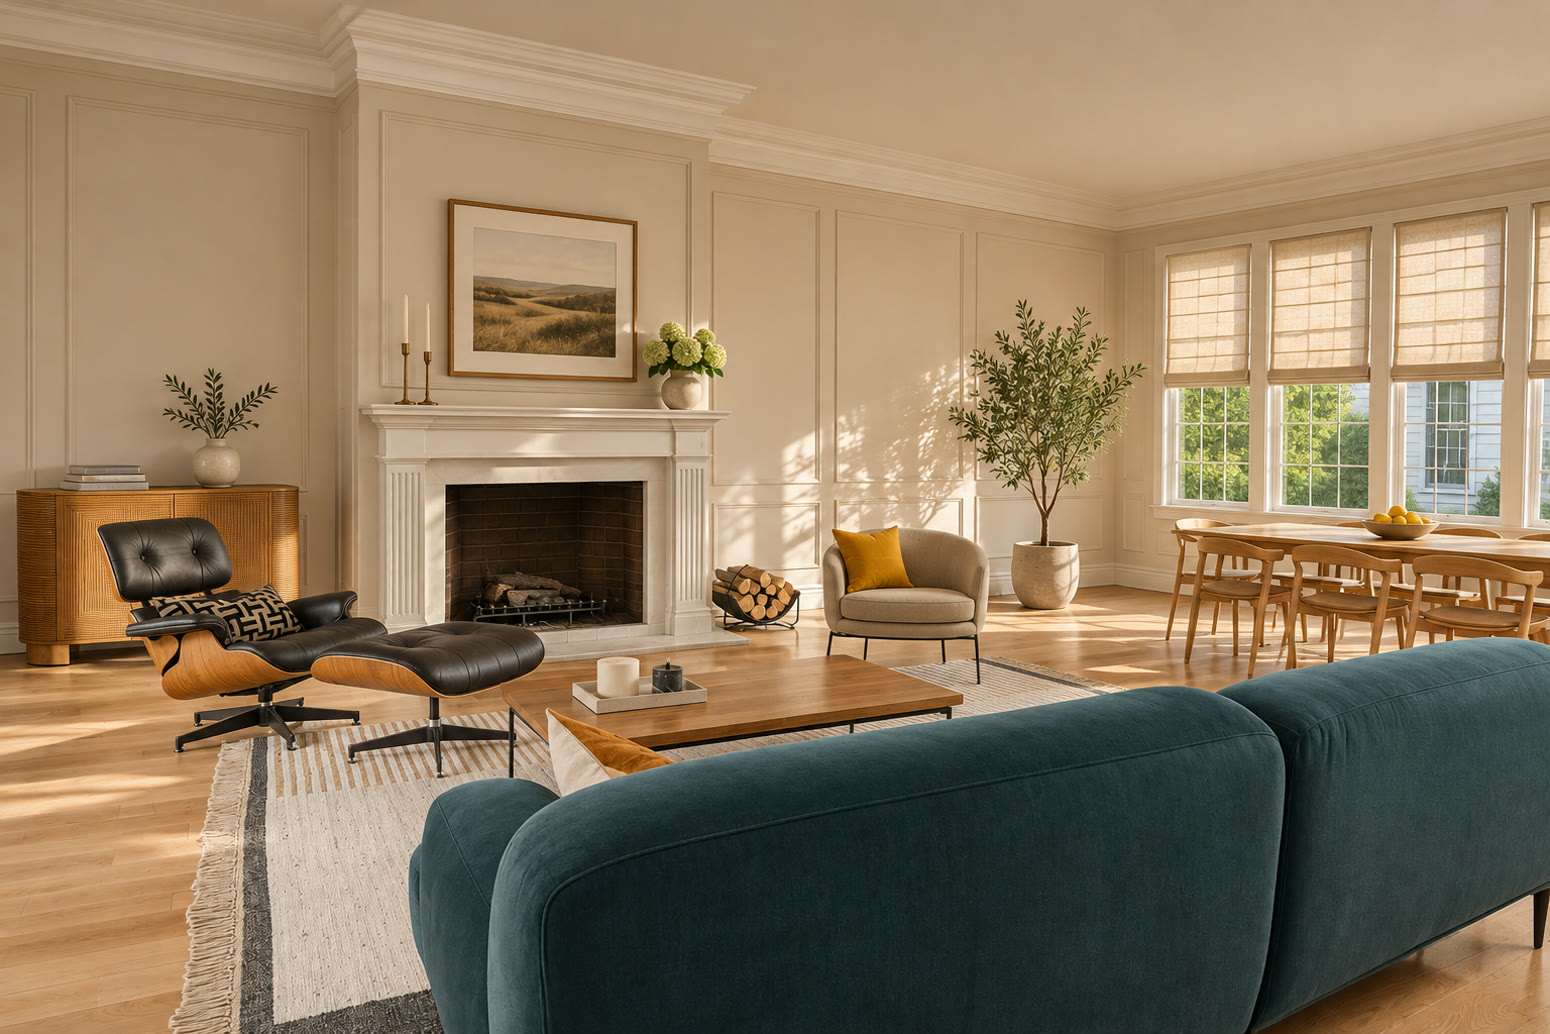
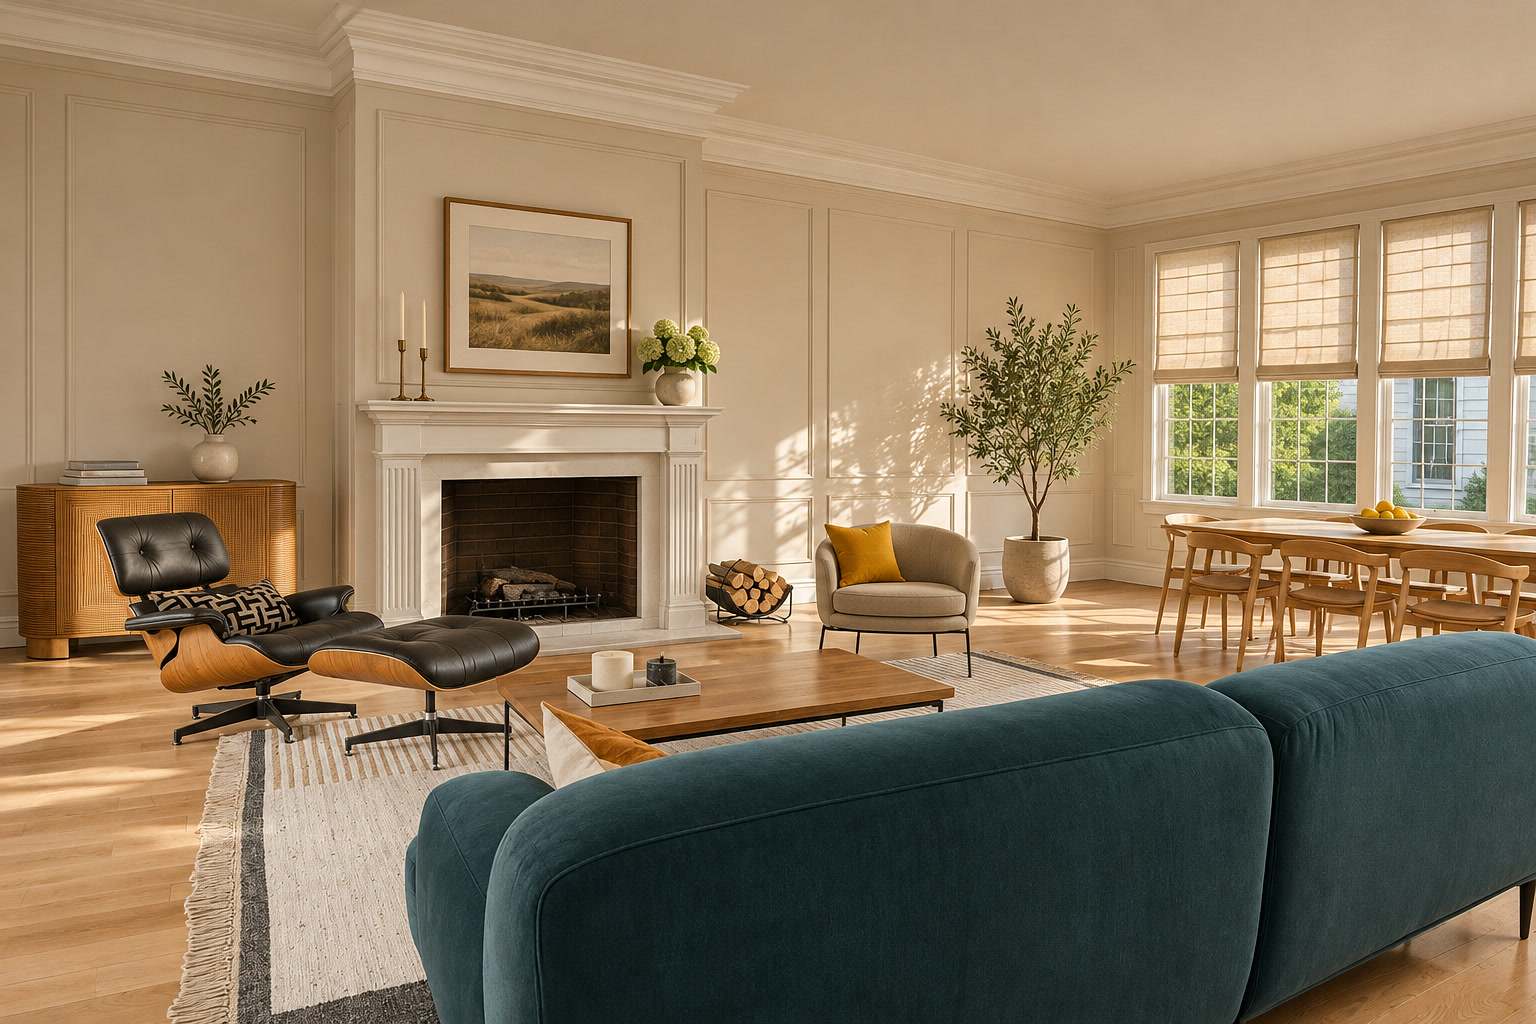
Widen and sharpen the spatial entrance

diff --git a/web/spatial/renderer.js b/web/spatial/renderer.js
@@ -15,9 +15,11 @@ const cross = (a,b) => [a[1]*b[2]-a[2]*b[1], a[2]*b[0]-a[0]*b[2], a[0]*b[1]-a[1]
 const dot = (a,b) => a.reduce((sum,x,i) => sum+x*b[i], 0);
 
 export function cameraAt(progress, aspect, pointer = [0, 0]) {
-  const focal = 1 / Math.tan(39 * Math.PI / 360);
-  const dockDistance = MAIN_WIDTH * focal / (2 * aspect);
-  const wideDistance = Math.max(21.5, dockDistance * 1.82);
+  const fieldOfView=mix(43,39,ramp(.20,.74,progress));
+  const focal=1/Math.tan(fieldOfView*Math.PI/360);
+  const dockFocal=1/Math.tan(39*Math.PI/360);
+  const dockDistance=MAIN_WIDTH*dockFocal/(2*aspect);
+  const wideDistance=Math.max(22, dockDistance*1.88);
   const travel = ramp(0, 1, progress);
   const straighten = 1 - ramp(.24, .72, progress);
   const eye = [(-3.9 + pointer[0] * .6)*straighten, (1.5 + pointer[1]*.3)*straighten,
@@ -51,7 +53,7 @@ varying vec2 vRay;
 uniform vec3 uEye,uRight,uUp,uForward;
 uniform vec3 uPlateEye,uPlateRight,uPlateUp,uPlateForward;
 uniform vec2 uLens;
-uniform float uTime,uRoomBlend;
+uniform float uTime,uRoomBlend,uPlateFocal;
 uniform sampler2D uPlate;
 float hash(vec2 p){return fract(sin(dot(p,vec2(127.1,311.7)))*43758.5453);}
 float noise(vec2 p){
@@ -123,7 +125,7 @@ void main(){
   float sofa=boxEntry(uEye,d,vec3(-3.3,-2.84,12.9),vec3(9.3,-1.20,16.4));
   vec3 at=uEye+d*min(t,sofa)-uPlateEye;
   float depth=max(.02,dot(at,uPlateForward));
-  vec2 point=vec2(dot(at,uPlateRight)*uLens.y/uLens.x,-dot(at,uPlateUp)*uLens.y)/depth*.5+.5;
+  vec2 point=vec2(dot(at,uPlateRight)/uLens.x,-dot(at,uPlateUp))*uPlateFocal/depth*.5+.5;
   vec2 edge=min(point,1.-point);
   float inPlate=smoothstep(-.045,-.002,min(edge.x,edge.y));
   vec3 photo=texture2D(uPlate,point).rgb;
@@ -169,9 +171,11 @@ void main(){
   if(uPortal<.5&&length(corner)>1.0)discard;
   vec3 color=texture2D(uImage,vUV).rgb;
   float edge=smoothstep(.0,.005,min(vUV.x,1.-vUV.x))*smoothstep(.0,.012,min(vUV.y,1.-vUV.y));
-  float glint=exp(-pow((vUV.x-.17-uEye.x*.085)/.19,2.))*(.3+.7*vUV.y);
+  float glint=exp(-pow((vUV.x-.28-uEye.x*.060)/.23,2.))*(.36+.64*vUV.y);
+  float rim=(1.-smoothstep(.002,.011,vUV.y))*smoothstep(.015,.06,vUV.x)*(1.-smoothstep(.94,.985,vUV.x));
   color=mix(vec3(.41,.37,.33)*(.5+.5*glint),color,edge);
-  color+=vec3(.090,.079,.066)*glint*.38*(1.-uPortal);
+  color+=vec3(.073,.065,.051)*glint*.48*(1.-uPortal);
+  color+=vec3(.24,.22,.18)*rim*glint*(1.-uPortal);
   color=mix(color,vec3(.063,.067,.074),uPortal*uDock*.83);
   if(uReflection>.5){
     float a=.115*exp(-.10*dot(vPosition.xz,vPosition.xz)/10.)
@@ -205,7 +209,7 @@ function strip(steps, position) {
 }
 
 export function makeScene(canvas, wallArt, mainArt, roomArt, actorArt) {
-  const gl = canvas.getContext('webgl',{antialias:false,alpha:false, powerPreference:'high-performance'});
+  const gl = canvas.getContext('webgl',{antialias:canvas.parentElement.clientWidth>=760,alpha:false,powerPreference:'high-performance'});
   if (!gl) throw Error('WebGL unavailable');
   const room = program(gl,roomVertex,roomFragment), screen = program(gl,screenVertex,screenFragment);
   const resources = [];
@@ -216,31 +220,44 @@ export function makeScene(canvas, wallArt, mainArt, roomArt, actorArt) {
     resources.push(() => gl.deleteBuffer(buffer));
     return buffer;
   };
-  const texture = source => {
+  const maxTexture=gl.getParameter(gl.MAX_TEXTURE_SIZE);
+  function uploadTexture(source,mipmapped) {
+    const scale=Math.min(1,maxTexture/Math.max(source.width,source.height));
+    if(scale<1){
+      const reduced=document.createElement('canvas');
+      reduced.width=Math.floor(source.width*scale);
+      reduced.height=Math.floor(source.height*scale);
+      reduced.getContext('2d').drawImage(source,0,0,reduced.width,reduced.height);
+      source=reduced;
+    }
+    gl.texImage2D(gl.TEXTURE_2D,0,gl.RGBA,gl.RGBA,gl.UNSIGNED_BYTE,source);
+    if(mipmapped)gl.generateMipmap(gl.TEXTURE_2D);
+  }
+  const texture = (source,mipmapped=false) => {
     const tex=gl.createTexture();
     gl.bindTexture(gl.TEXTURE_2D,tex);
     gl.texParameteri(gl.TEXTURE_2D,gl.TEXTURE_WRAP_S,gl.CLAMP_TO_EDGE);
     gl.texParameteri(gl.TEXTURE_2D,gl.TEXTURE_WRAP_T,gl.CLAMP_TO_EDGE);
-    gl.texParameteri(gl.TEXTURE_2D,gl.TEXTURE_MIN_FILTER,gl.LINEAR);
+    gl.texParameteri(gl.TEXTURE_2D,gl.TEXTURE_MIN_FILTER,mipmapped?gl.LINEAR_MIPMAP_LINEAR:gl.LINEAR);
     gl.texParameteri(gl.TEXTURE_2D,gl.TEXTURE_MAG_FILTER,gl.LINEAR);
-    gl.texImage2D(gl.TEXTURE_2D,0,gl.RGBA,gl.RGBA,gl.UNSIGNED_BYTE,source);
+    uploadTexture(source,mipmapped);
     resources.push(() => gl.deleteTexture(tex));
     return tex;
   };
   const quad=mesh(new Float32Array([-1,-1,1,-1,-1,1,1,1]));
-  const wallShape=strip(76,(u,y) => {
+  const wallShape=strip(128,(u,y) => {
     const angle=(u-.5)*TAU/3.96;
     return [Math.sin(angle)*WALL_RADIUS,mix(-2.00,4.24,y),WALL_RADIUS*(1-Math.cos(angle))-.34];
   });
   const wall=mesh(wallShape), main=mesh(new Float32Array(20),true), actor=mesh(new Float32Array(20),true);
-  const wallTex=texture(wallArt), mainTex=texture(mainArt), roomTex=texture(roomArt);
+  const wallTex=texture(wallArt,true), mainTex=texture(mainArt), roomTex=texture(roomArt);
   const actorTex=texture(actorArt);
   const roomPoint=gl.getAttribLocation(room,'aPoint');
   const world=gl.getAttribLocation(screen,'aWorld'), uv=gl.getAttribLocation(screen,'aUV');
   const locations = p => Object.fromEntries(['Eye','Right','Up','Forward','Lens','Time','Reflection','Fade','Portal','Dock','Actor','Image']
     .map(key=>[key,gl.getUniformLocation(p,'u'+key)]));
   const roomU=locations(room), screenU=locations(screen);
-  const photoUniforms=Object.fromEntries(['Eye','Right','Up','Forward','Blend','Sampler'].map(
+  const photoUniforms=Object.fromEntries(['Eye','Right','Up','Forward','Blend','Sampler','Focal'].map(
     key=>[key,gl.getUniformLocation(room,key==='Blend'?'uRoomBlend':key==='Sampler'?'uPlate':'uPlate'+key)]));
   gl.useProgram(screen); gl.uniform1i(screenU.Image,0);
   gl.blendFunc(gl.SRC_ALPHA,gl.ONE_MINUS_SRC_ALPHA);
@@ -285,7 +302,8 @@ export function makeScene(canvas, wallArt, mainArt, roomArt, actorArt) {
       gl.useProgram(room); uniforms(roomU,camera,time);
       gl.uniform3fv(photoUniforms.Eye,plate.eye); gl.uniform3fv(photoUniforms.Right,plate.right);
       gl.uniform3fv(photoUniforms.Up,plate.up); gl.uniform3fv(photoUniforms.Forward,plate.forward);
-      gl.uniform1f(photoUniforms.Blend,1-ramp(.60,.94,progress));
+      gl.uniform1f(photoUniforms.Focal,plate.focal);
+      gl.uniform1f(photoUniforms.Blend,1-ramp(.70,.96,progress));
       gl.uniform1i(photoUniforms.Sampler,0);
       gl.bindTexture(gl.TEXTURE_2D,roomTex);
       gl.bindBuffer(gl.ARRAY_BUFFER,quad); gl.enableVertexAttribArray(roomPoint);
@@ -310,7 +328,7 @@ export function makeScene(canvas, wallArt, mainArt, roomArt, actorArt) {
     update() {
       for (const [tex,source] of [[wallTex,wallArt],[mainTex,mainArt],[roomTex,roomArt]]) {
         gl.bindTexture(gl.TEXTURE_2D,tex);
-        gl.texImage2D(gl.TEXTURE_2D,0,gl.RGBA,gl.RGBA,gl.UNSIGNED_BYTE,source);
+        uploadTexture(source,tex===wallTex);
       }
     },
     dispose() {

diff --git a/web/spatial/art.js b/web/spatial/art.js
@@ -34,6 +34,7 @@ function crop(ctx,image,x,y,w,h,cell) {
   if (!image) return box(ctx,x,y,w,h,'#272d30');
   const clipWidth=cell===undefined?image.width:image.width/3, clipHeight=image.height;
   const ratio=Math.max(w/clipWidth,h/clipHeight);
+  ctx.imageSmoothingQuality='high';
   const cw=w/ratio,ch=h/ratio;
   ctx.drawImage(image,clipWidth*(cell??0)+(clipWidth-cw)/2,(clipHeight-ch)/2,cw,ch,x,y,w,h);
 }
@@ -51,7 +52,7 @@ function shotRef(work) {
 }
 
 export function makeArt() {
-  const wall=canvas(2800,670), main=canvas(1280,800), room=canvas(1280,800), actor=canvas(720,480);
+  const wall=canvas(4096,1024), main=canvas(1280,800), room=canvas(1980,1200), actor=canvas(960,640);
   let still, samples, daylight, projectCover, currentWork, projectShots=[];
   function draw(work=currentWork) {
     currentWork=work;
@@ -61,6 +62,7 @@ export function makeArt() {
     const shot=shotRef(work);
     const artNotes=work?.creative_brief?.style||(work?'为这一场确定光线、人物动作和视线。':'雨夜站台，保持同场光线与人物视线。');
     const ctx=wall.getContext('2d');
+    ctx.setTransform(wall.width/2800,0,0,wall.height/670,0,0);
     const background=ctx.createLinearGradient(0,0,1400,670);
     background.addColorStop(0,'#47352d'); background.addColorStop(.46,'#292527');
     background.addColorStop(1,'#161a1c');
@@ -153,7 +155,9 @@ export function makeArt() {
     resize(aspect) {
       const width=Math.min(1440,Math.max(270,Math.round(800*aspect)));
       if(main.width===width)return false;
-      main.width=room.width=width;draw();drawRoom();
+      main.width=width;
+      room.width=Math.round(width*1.5);
+      draw();drawRoom();
       return true;
     },
     async load(work) {

diff --git a/web/spatial/entrance.js b/web/spatial/entrance.js
@@ -101,8 +101,9 @@ function showEntrance({reverse=false,source}={}) {
       frame=requestAnimationFrame(render);
       return;
     }
-    // Limit pixel count on high-DPI panels instead of allocating post-processing buffers.
-    const ratio=Math.min(devicePixelRatio,1.55,Math.sqrt(1900000/(width*height)));
+    // Render at Retina density where the viewport budget permits. Touch layouts use fewer pixels.
+    const pixelBudget=width<760?2100000:3900000;
+    const ratio=Math.min(devicePixelRatio,2,Math.sqrt(pixelBudget/(width*height)));
     const w=Math.round(width*ratio),h=Math.round(height*ratio);
     if (canvas.width!==w||canvas.height!==h) {canvas.width=w;canvas.height=h;}
     pointer=pointer.map((value,i)=>value+(target[i]-value)*.09);

diff --git a/tests/spatial-entrance.test.js b/tests/spatial-entrance.test.js
@@ -20,6 +20,7 @@ test('scroll depth advances the real camera and keeps reversible spatial coordin
   const {cameraAt,portalRect}=await renderer;
   const aspect=1440/900;
   const outward=cameraAt(.2,aspect,[.5,-.1]);
+  assert.ok(outward.focal<cameraAt(1,aspect).focal);
   const inward=cameraAt(.5,aspect,[.5,-.1]);
   assert.ok(outward.eye[2]>inward.eye[2]);
   assert.ok(portalRect(outward,1440,900)[2]<portalRect(inward,1440,900)[2]);

diff --git a/docs/spatial-entrance.md b/docs/spatial-entrance.md
@@ -7,7 +7,7 @@
 - `web/spatial/renderer.js` 用 WebGL 把日光客厅影像投影到房间和近景家具表面，并绘制带分段的圆弧网格、中央屏和半透明的近景人物。人物以独立纹理平面放置在屏幕前方，沙发挡住下半身。摄影机移动时，世界坐标中的投影表面和屏幕产生视差。
 - `web/spatial/art.js` 将剧本、人物与场景、放映画面、分镜和时间线画入纹理。正式入口优先读取当前作品的只读数据，预览使用仓库自带的三镜分镜和独立创作的《夜晚站台》概念图。
 - `web/spatial/entrance.js` 从原生滚动位置计算摄影机轨迹，推近至正视中央屏。最后将原工作台映射到中央屏的投影矩形，连续交接到视口。转场结束后移除开场节点、恢复工作台交互、释放 WebGL 资源。
-- 画面动态设置像素比上限并暂停后台标签渲染。禁用 WebGL 或开启减少动态效果时提供日光客厅底图和进入按钮。桌面鼠标、触屏和键盘可以控制开场。
+- 开场使用较宽的视角，推进后恢复正常焦段。画面按桌面和手机分别限制渲染像素数量，曲面屏纹理使用多级过滤，并暂停后台标签渲染。禁用 WebGL 或开启减少动态效果时提供日光客厅底图和进入按钮。桌面鼠标、触屏和键盘可以控制开场。
 
 ## 复验
 
